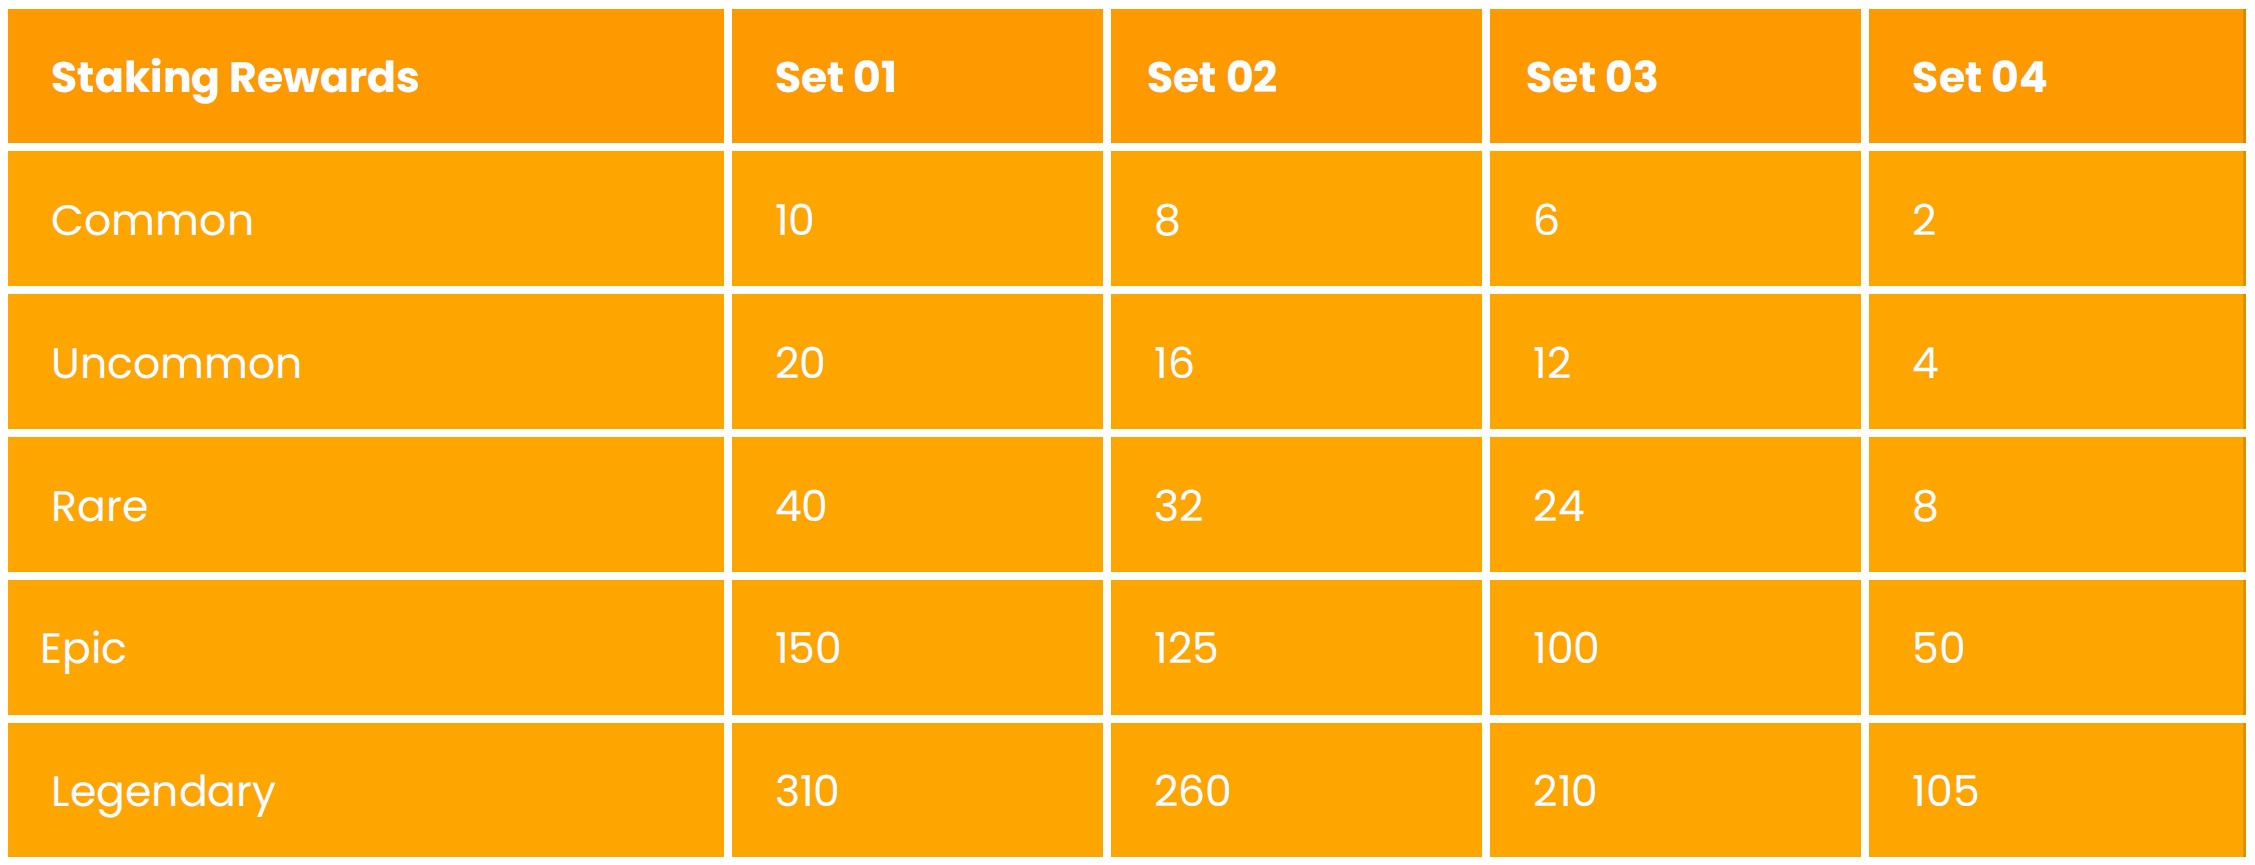
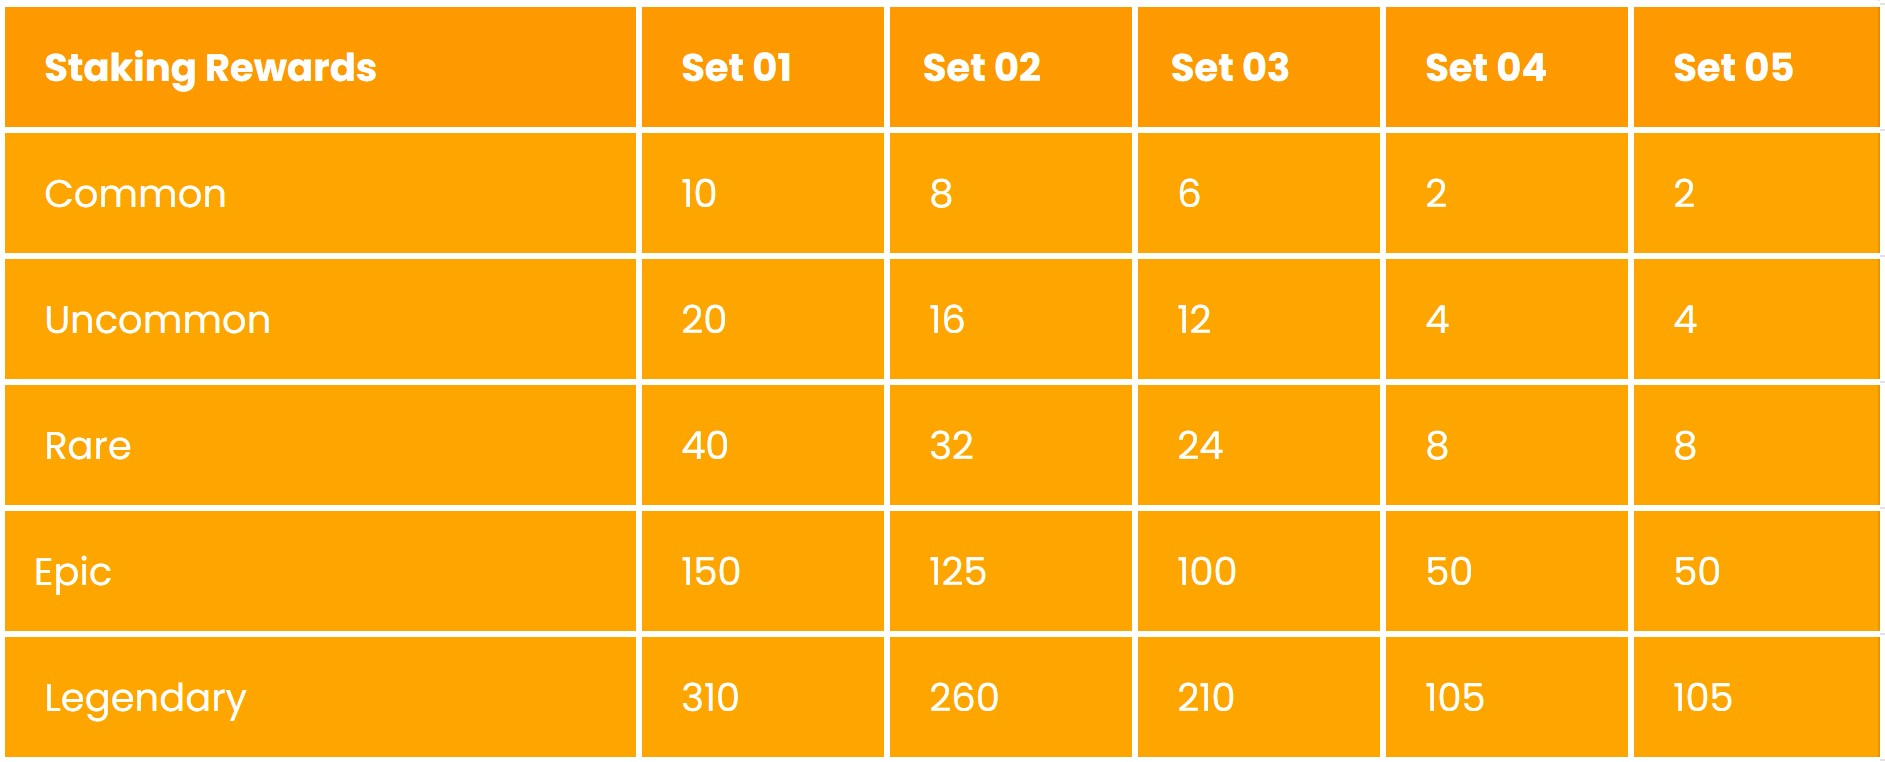
added set charts

diff --git a/src/views/HowToPlayView.vue b/src/views/HowToPlayView.vue
@@ -58,10 +58,10 @@
     <div class="craftswap">
         <p class="darkBlueHeader spreadText">CRAFT // SWAP</p>
         <p>All available crafts are contained in the <a class="blueLinks" href="https://www.randgallery.com/algo-collection/?address=ALCHY5SJXOXZXADZPD73KO6CYNZXDUWFYANTSXU6RIO3EZACIIXUCS3YDM" target="_blank">Store</a>. The Craft links below:</p>
-        <p>
+        <!-- <p>
             <br>&#9830; <a class="blueLinks" href="https://www.randgallery.com/recipe/craft-a-voltstorm-alchemon/" target="_blank">Craft a <b>Voltstorm</b> from 2 Hailstorm and 2 Zipacute</a> SOLD OUT! More coming in the future...
             <br>&#9830; <a class="blueLinks" href="https://www.randgallery.com/recipe/craft-a-chomperz-alchemon/" target="_blank">Craft a <b>Chomperz</b> from 2 Daggerpult and 2 Likachomp</a> SOLD OUT! More coming in the future...
-            <br>&#9830; <a class="blueLinks" href="https://www.randgallery.com/recipe/craft-a-cyclostorm-alchemon/" target="_blank">Craft a <b>Cyclostorm</b> from a Chomperz and a Voltstorm</a> SOLD OUT! More coming in the future...</p>
+            <br>&#9830; <a class="blueLinks" href="https://www.randgallery.com/recipe/craft-a-cyclostorm-alchemon/" target="_blank">Craft a <b>Cyclostorm</b> from a Chomperz and a Voltstorm</a> SOLD OUT! More coming in the future...</p> -->
         <div>
             <img class="zoomIn_1" src="../assets/craft.jpg" width="15%" alt="Crafting Icon">
             <img class="zoomIn_1" src="../assets/transfer.png" width="15%" alt="Trading Icon">
@@ -98,7 +98,8 @@
         <img src="../assets/distributionTable1.png" width="90%" alt="Distribution Table 1" class="zoomIn_1">
         <img src="../assets/distributionTable2.png" width="90%" alt="Distribution Table 2" class="zoomIn_1">
         <img src="../assets/distributionTable3.png" width="90%" alt="Distribution Table 3" class="zoomIn_1">
-        <img src="../assets/distributionTable4.png" width="90%" alt="Distribution Table 3" class="zoomIn_1">
+        <img src="../assets/distributionTable4.png" width="90%" alt="Distribution Table 4" class="zoomIn_1">
+        <img src="../assets/distributionTable5.png" width="90%" alt="Distribution Table 5" class="zoomIn_1">
     </div>
 </div>
 </template>
